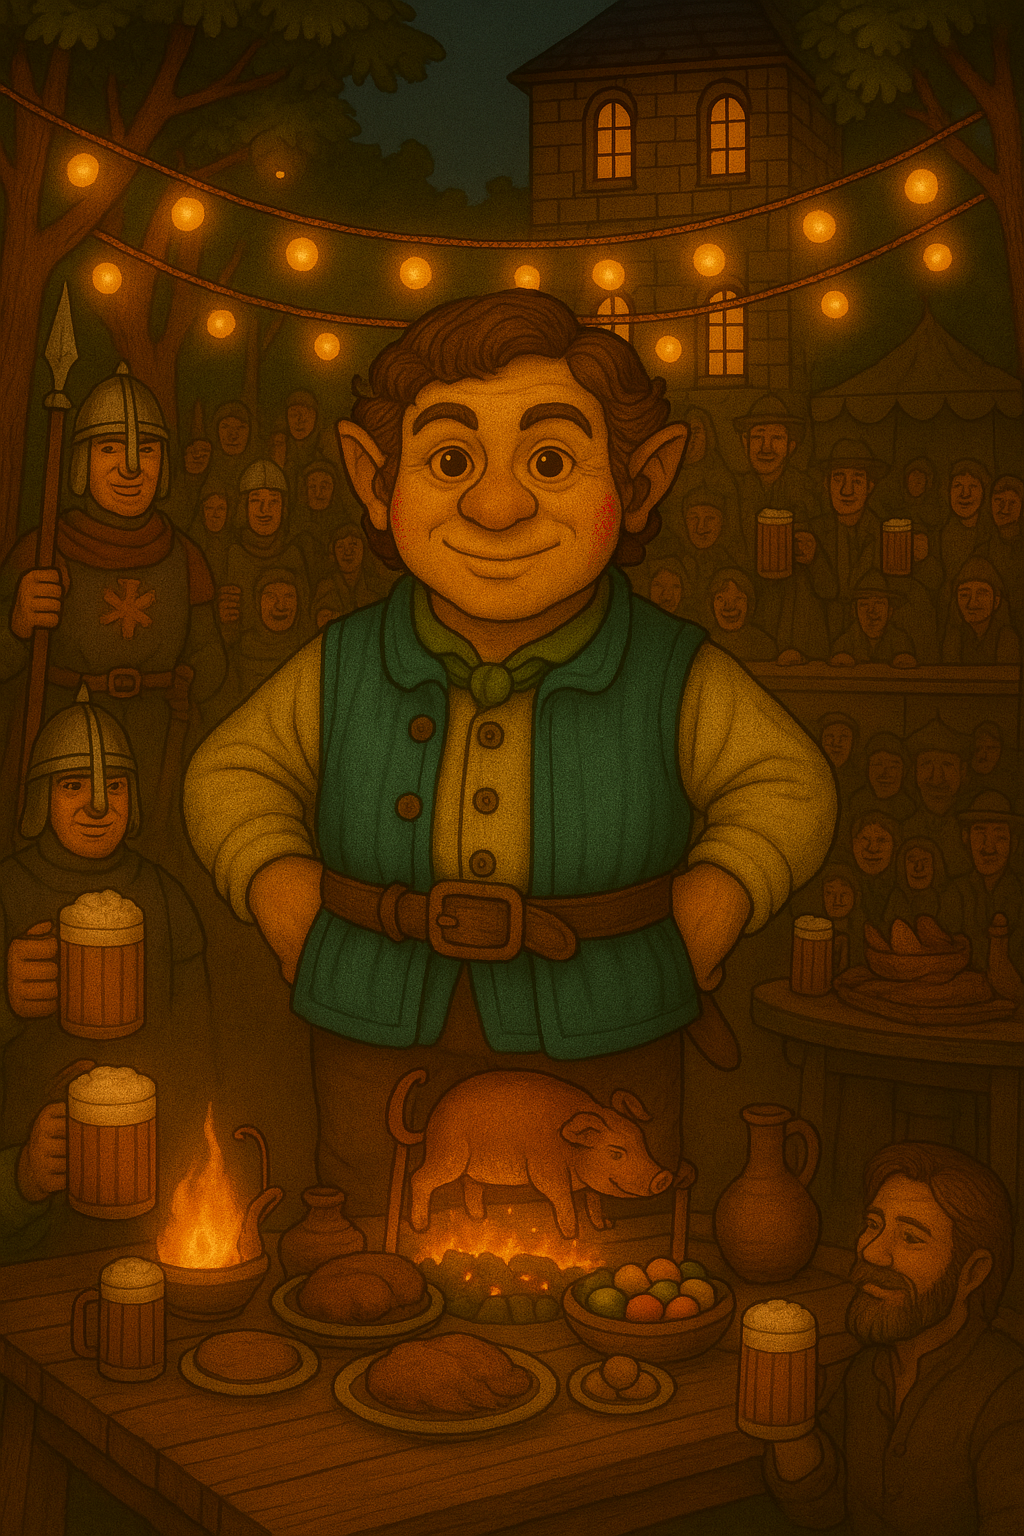
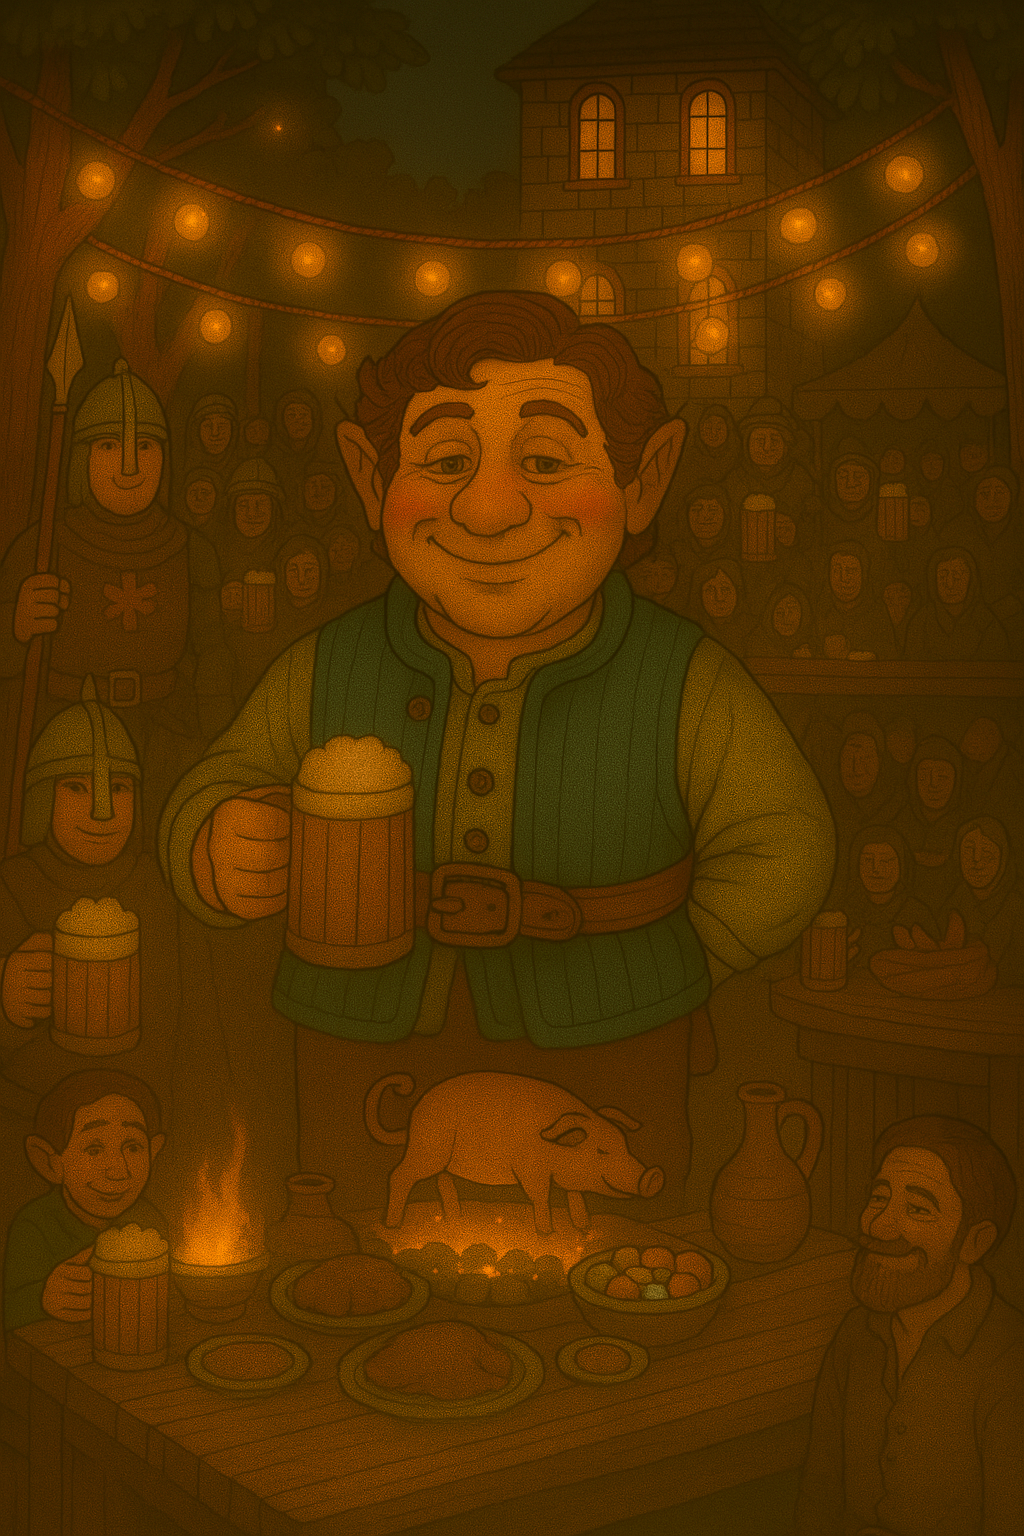
Character Alt Description

diff --git a/src/DataFixtures/Dialog/DialogStep/PortSaintDoux/BiloLePassantTrait.php b/src/DataFixtures/Dialog/DialogStep/PortSaintDoux/BiloLePassantTrait.php
@@ -111,7 +111,7 @@ trait BiloLePassantTrait
         // Ragots: Banquet Inaugural
         [
             'name' => 'Bilo - Banquet Inaugural',
-            'text' => "<p><em>Oh bah vous voilà&nbsp;! J’vous avais pas vu dans tout ce monde.</em></p><p>Il se rapproche de vous et votre odorat vous confirme qu'il ripaille depuis déjà un certain temps.</p><p><em>Dites, vous l’avez remarquée vous aussi, l’amulette du Maire&nbsp;? Celle qu’il a autour du cou. On dirait qu’elle brille toute seule, même à l’ombre. R'gardez bien… C’est pas un bijou qu’on trouve au marché, ça, j’vous le dis.</em></p><p><em>J’ai entendu dire qu’il l’aurait reçue d’un vieux noble… ou d’un mage, même&nbsp;! Personne sait trop. Mais moi, j’crois que c'est un truc mystique. Vachement ancien, vous voyez&nbsp;?</em></p><p>Son air presque sérieux et le doigt qui hasarde vers son visage vous donnent envie de sourire.</p><p><em>Y a quelque chose qui cloche, j’le sens dans mes mollets.</em></p>",
+            'text' => "<p><em>Oh bah vous voilà&nbsp;! J’vous avais pas vu dans tout ce monde.</em></p><p>Il se rapproche de vous et votre odorat vous confirme qu'il ripaille depuis déjà un certain temps.</p><p><em>Dites, vous l’avez remarquée vous aussi, l’amulette du Maire&nbsp;? Celle qu’il a autour du cou. On dirait qu’elle brille toute seule, même à l’ombre. R'gardez bien… C’est pas un bijou qu’on trouve au marché, ça, j’vous le dis.</em></p><p>Il s'approche encore un peu plus, vous tenez bon et vous évitez les gouttes de bière.</p><p><em>J’ai entendu dire qu’il l’aurait reçue d’un vieux noble… ou d’un mage, même&nbsp;! Personne sait trop. Mais moi, j’crois que c'est un truc mystique. Vachement ancien, vous voyez&nbsp;?</em></p><p>Son air presque sérieux et le doigt qui hasarde vers son visage vous donnent envie de sourire.</p><p><em>Y a quelque chose qui cloche, j’le sens dans mes mollets.</em></p>",
             'first' => true,
             'conditions' => [
                 'quest_status' => [
